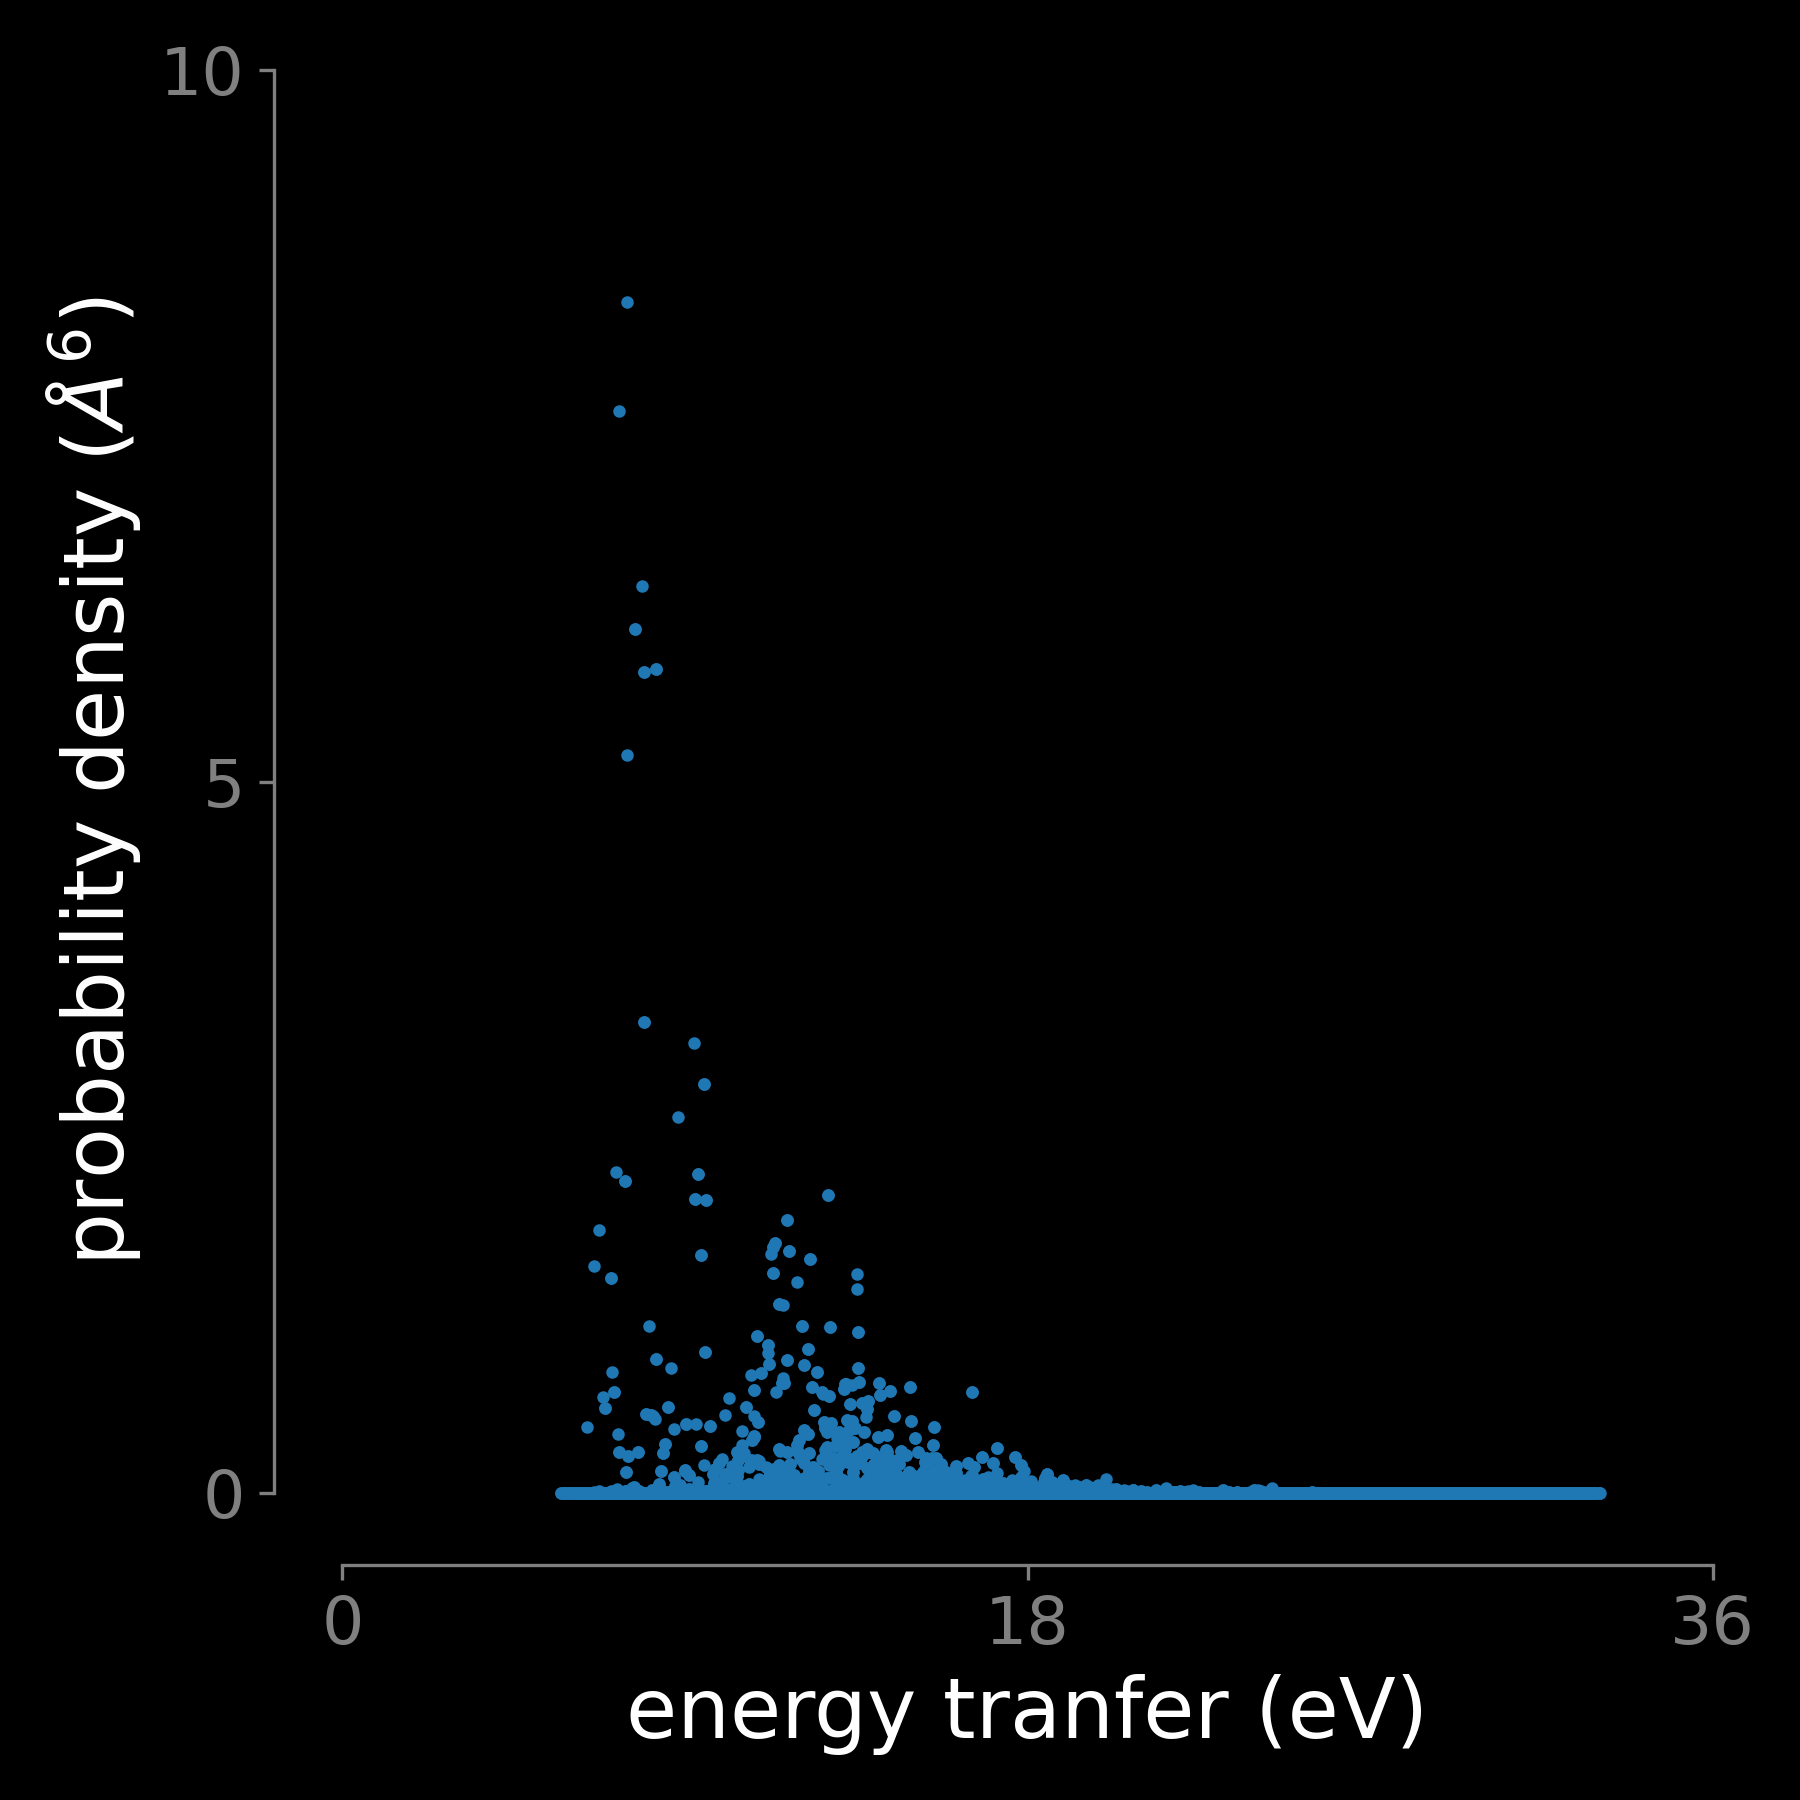
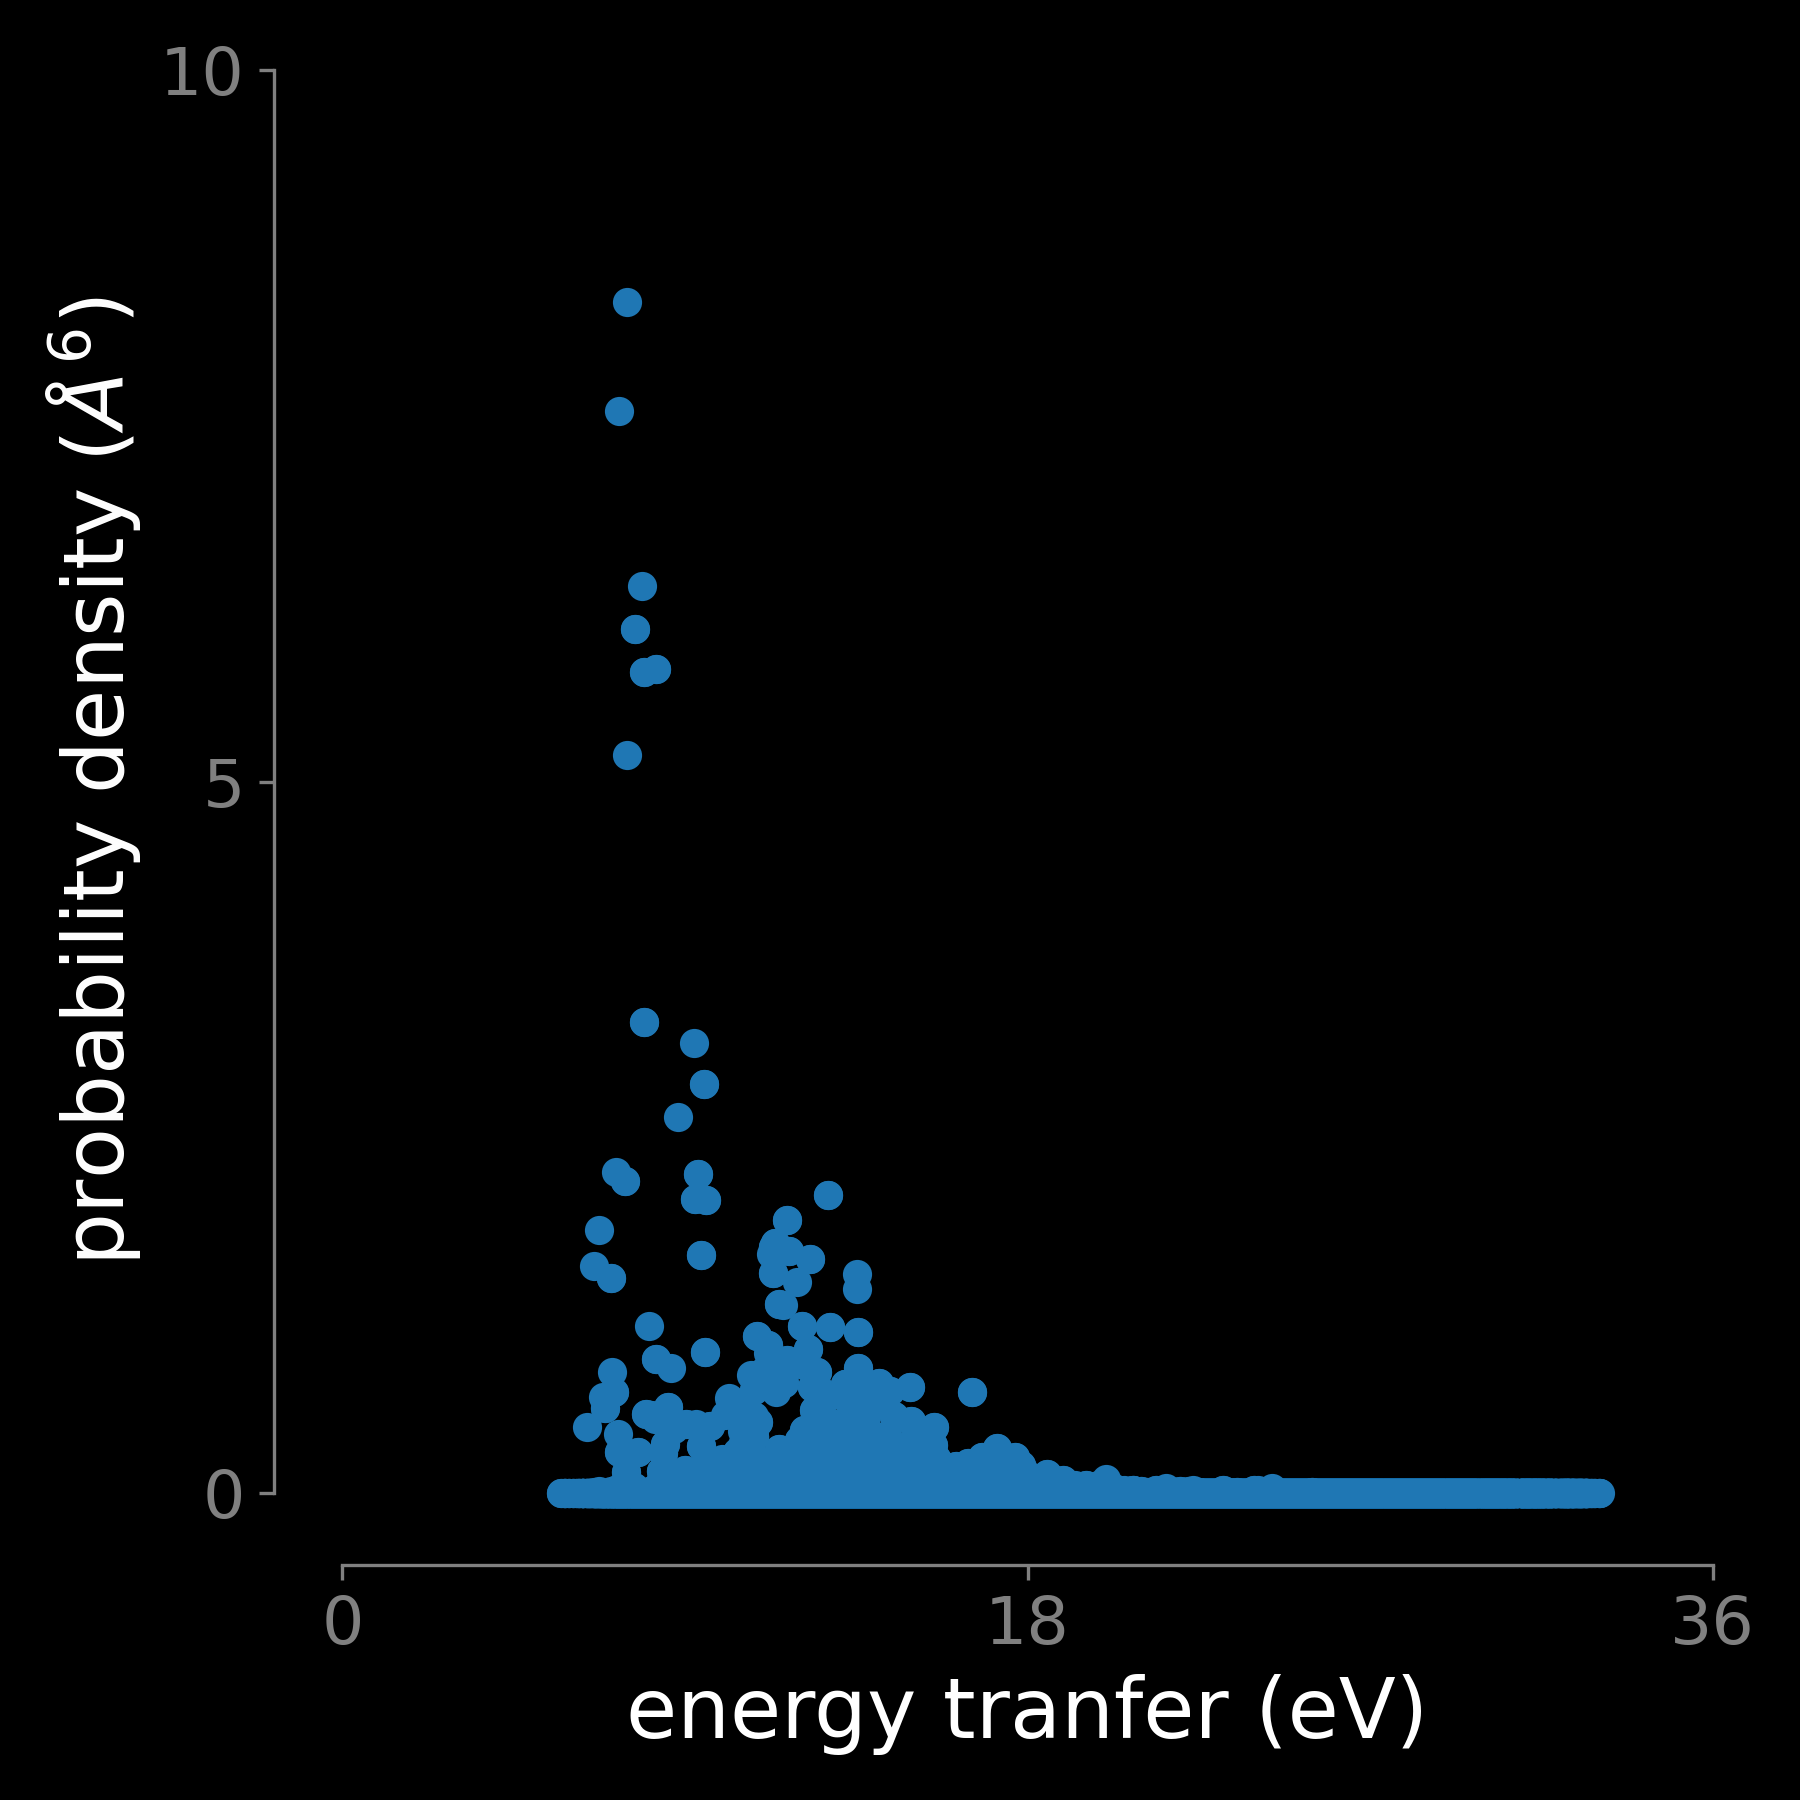
add bar plots

diff --git a/plots/plot.py b/plots/plot.py
@@ -3,6 +3,7 @@ from inspect import stack
 
 # eIrrad modules
 from eIrrad.plotScatter import ScatterPlot
+from eIrrad.plotBar import BarPlot
 
 # constants, unit conversions, and dictionaries
 from constants import *
@@ -22,6 +23,58 @@ PDMSpinfile = f'{PDMSdir}/{pinfile}'
 PDMSkinfile = f'{PDMSdir}/{kinfile}'
 PDMSexroot = f'{PDMSdir}/tmp/hBN.export'
 
+def barPEPDMS(
+        number = 5,
+        outfile = 'auto',
+        ):
+    """Most likely transitions."""
+    if outfile=='auto':
+        outfile = f'{stack()[0].function}.png'
+    print(f'saving to {outfile}')
+
+    plot = BarPlot(forslides=True)
+    plot.readData(pinfile=PDMSpinfile, kinfile=PDMSkinfile, top=PDMSdir)
+    plot.addBars(mode='number', number=number, color='tab:green')
+    plot.readData(pinfile=PEpinfile, kinfile=PEkinfile, top=PEdir)
+    plot.addBars(mode='number', number=number, color='tab:blue')
+    plot.plot()
+    plot.decorate(title=None)
+    plot.save(outfile=outfile)
+    plot.show()
+
+def barPE(
+        include = .01,
+        outfile = 'auto',
+        ):
+    """Most likely transitions."""
+    if outfile=='auto':
+        outfile = f'{stack()[0].function}.png'
+    print(f'saving to {outfile}')
+
+    plot = BarPlot(forslides=True)
+    plot.readData(pinfile=PEpinfile, kinfile=PEkinfile, top=PEdir)
+    plot.addBars(include=include)
+    plot.plot()
+    plot.decorate()
+    plot.save(outfile=outfile)
+    plot.show()
+        
+def barPDMS(
+        include = .01,
+        outfile = 'auto',
+        ):
+    """Most likely transitions."""
+    if outfile=='auto':
+        outfile = f'{stack()[0].function}.png'
+    print(f'saving to {outfile}')
+
+    plot = BarPlot(forslides=True)
+    plot.readData(pinfile=PDMSpinfile, kinfile=PDMSkinfile, top=PDMSdir)
+    plot.plot(include=include)
+    plot.decorate()
+    plot.save(outfile=outfile)
+    plot.show()
+
 def scatterZoomLinPEPDMS(
         outfile = 'auto',
         markersize = 10,
@@ -29,7 +82,7 @@ def scatterZoomLinPEPDMS(
     """Two colors: PE and PDMS."""
     if outfile=='auto':
         outfile = f'{stack()[0].function}.png'
-    print(f'saving as {outfile}')
+    print(f'saving to {outfile}')
 
     plot = ScatterPlot(forslides=True, clip_on=True, logy=False)
     plot.readData(pinfile=PEpinfile, kinfile=PEkinfile, top=PEdir)
@@ -153,7 +206,7 @@ def scatterPDMS(
 
 def scatterLinPE(
         outfile = 'scatterLinPE.png',
-        markersize = 2,
+        markersize = 6,
         ):
     """One color, all points."""
     plot = ScatterPlot(forslides=True, logy=False)
@@ -170,7 +223,7 @@ def scatterLinPE(
 
 def scatterLinPDMS(
         outfile = 'scatterLinPDMS.png',
-        markersize = 2,
+        markersize = 6,
         ):
     """One color, all points."""
     plot = ScatterPlot(forslides=True, logy=False)
